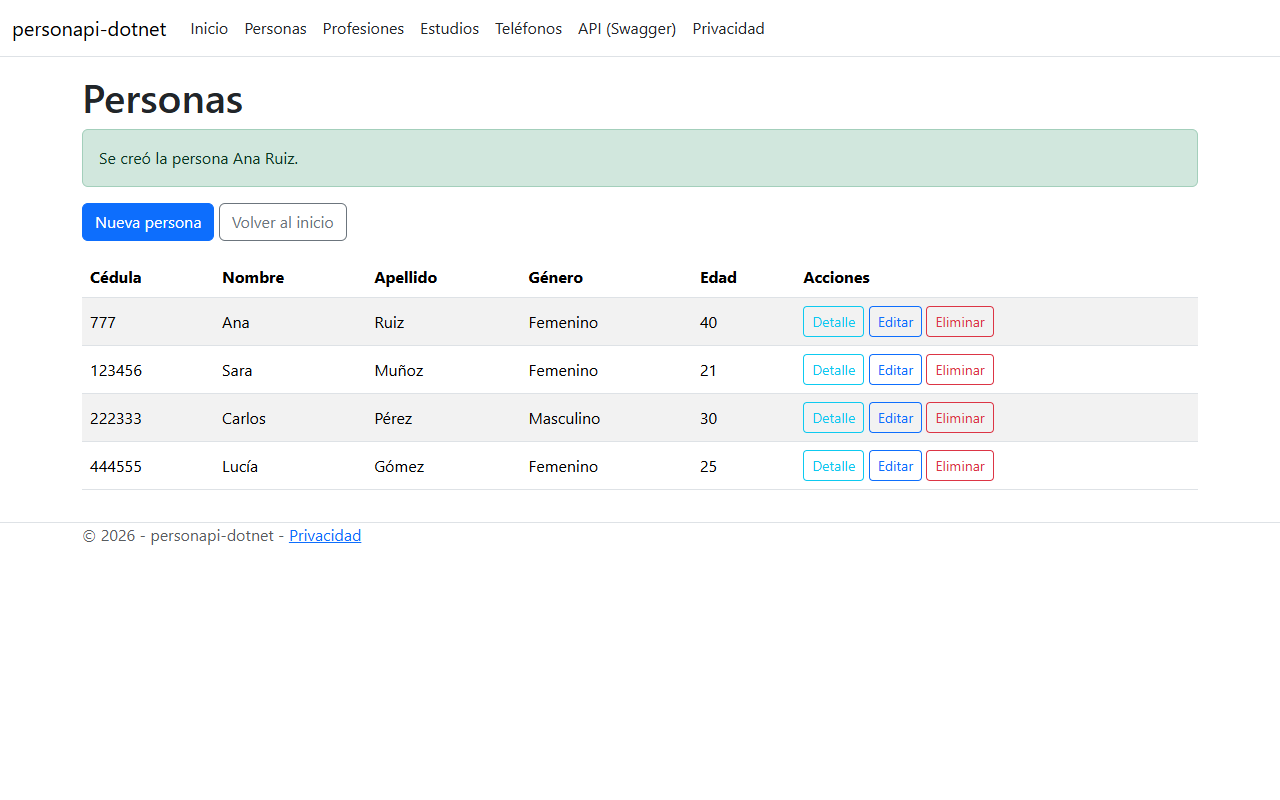
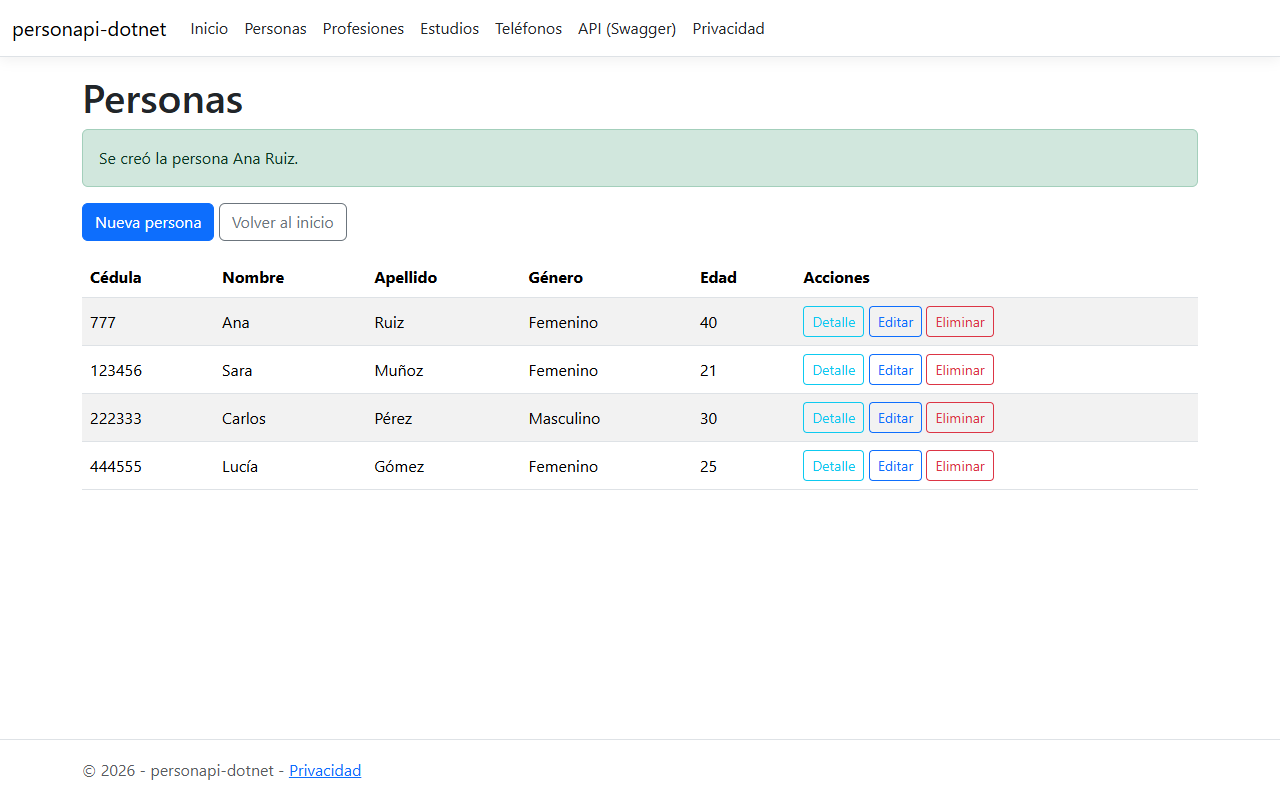
docs: evidencias de Swagger, diagramas y capturas sobre SQL Server real
- docs/evidencias/api: 8 capturas de Swagger UI probando 201, 200, 400, 409, 204 y 404.
- docs/evidencias/mvc: las 27 capturas, tomadas de nuevo sobre la versión publicada con servicios reales.
- docs/evidencias/README.md y docs/diagramas/README.md (estaban vacíos): índice de capturas y diagramas Mermaid de capas, modelo de datos y flujo.
- docs/pruebas.md: scripts en una base vacía, publicación y corrección de los estilos.

Changed region(s): [[0.0625, 0.9375, 0.2812, 0.9688], [0.0625, 0.6562, 0.2812, 0.6875]]

diff --git a/docs/diagramas/README.md b/docs/diagramas/README.md
@@ -1,0 +1,81 @@
+# Diagramas
+
+GitHub muestra los diagramas Mermaid directamente.
+
+## Capas del monolito
+
+Las vistas y la API comparten los mismos Services. Ningún controlador accede a los DAO ni al `DbContext`.
+
+```mermaid
+flowchart TD
+    N[Navegador] --> V[Vistas Razor]
+    V --> CV["Controller View<br/>Controllers/ViewControllers (20)"]
+    C[Cliente HTTP / Swagger UI] --> CA["API Controller<br/>Controllers/ApiControllers (4)"]
+    CV --> IS["Interfaces Service<br/>Controllers/Services/Interfaces"]
+    CA --> IS
+    IS --> S["Services<br/>Controllers/Services/Implementations"]
+    S --> ID["Interfaces DAO<br/>Controllers/Repositories/Interfaces"]
+    ID --> D["DAO<br/>Controllers/Repositories/Implementations"]
+    D --> EF["PersonaDbContext<br/>Entity Framework Core 10"]
+    EF --> BD[("SQL Server<br/>persona_db")]
+```
+
+## Modelo de datos
+
+Las llaves foráneas no borran en cascada (`NO ACTION`). Una persona con estudios o teléfonos, o una profesión con
+estudios, no se puede eliminar.
+
+```mermaid
+erDiagram
+    persona ||--o{ estudios : "cc_per"
+    profesion ||--o{ estudios : "id_prof"
+    persona ||--o{ telefono : "duenio"
+
+    persona {
+        int cc PK
+        varchar nombre "varchar(45)"
+        varchar apellido "varchar(45)"
+        char genero "char(1), M o F"
+        int edad ">= 0"
+    }
+    profesion {
+        int id PK "no es IDENTITY"
+        varchar nom "varchar(90)"
+        varchar des "varchar(max), opcional"
+    }
+    estudios {
+        int id_prof PK, FK
+        int cc_per PK, FK
+        date fecha "opcional"
+        varchar univer "varchar(50), opcional"
+    }
+    telefono {
+        varchar num PK "varchar(15)"
+        varchar oper "varchar(45)"
+        int duenio FK
+    }
+```
+
+## Flujo de una petición: crear un estudio desde la vista
+
+```mermaid
+sequenceDiagram
+    actor U as Usuario
+    participant CV as EstudiosCrearController
+    participant S as EstudiosService
+    participant D as DAO
+    participant BD as SQL Server
+    U->>CV: POST /Estudios/Crear (formulario + token)
+    CV->>CV: valida ModelState
+    CV->>S: CrearAsync(EstudiosCrearDto)
+    S->>D: ¿existe (idProf, ccPer)? ¿existen persona y profesión?
+    D->>BD: SELECT
+    alt llave repetida o referencia inexistente
+        S-->>CV: ConflictoNegocioException
+        CV-->>U: formulario con el mensaje en español
+    else válido
+        S->>D: CrearAsync(Estudio)
+        D->>BD: INSERT
+        CV-->>U: 302 a /Estudios con mensaje de confirmación
+    end
+```

diff --git a/docs/evidencias/README.md b/docs/evidencias/README.md
@@ -1,0 +1,32 @@
+# Evidencias
+
+Capturas de la aplicación con datos ficticios, tomadas con Playwright (Chromium, 1280 px de ancho). Se tomaron sobre
+la versión publicada (`dotnet publish`, ambiente Production), con los servicios reales y SQL Server 2022, cargado con
+los scripts de `Database/`.
+
+## API REST en Swagger UI (`api/`)
+
+Cada captura prueba una operación desde Swagger UI con "Try it out" y muestra la respuesta del servidor.
+
+| Archivo | Qué muestra |
+|---|---|
+| `01-swagger-endpoints.png` | Los 20 endpoints de `/api` y los esquemas (DTO, `ProblemDetails`) |
+| `02-swagger-post-persona-201.png` | `POST /api/personas` válido → `201 Created` |
+| `03-swagger-get-persona-200.png` | `GET /api/personas/{cc}` de la persona creada → `200 OK` |
+| `04-swagger-post-persona-400.png` | `POST /api/personas` con datos inválidos → `400` con los mensajes en español |
+| `05-swagger-delete-persona-409.png` | `DELETE /api/personas/{cc}` de una persona con estudios y teléfonos → `409 Conflict` |
+| `06-swagger-get-estudio-200.png` | `GET /api/estudios/{idProf}/{ccPer}` por sus dos llaves → `200 OK` |
+| `07-swagger-delete-persona-204.png` | `DELETE /api/personas/{cc}` sin registros relacionados → `204 No Content` |
+| `08-swagger-get-persona-404.png` | `GET /api/personas/{cc}` después de borrar → `404 Not Found` |
+
+## Vistas MVC (`mvc/`)
+
+27 capturas del CRUD de las cuatro entidades:
+
+- las listas;
+- los formularios con validación;
+- la llave repetida;
+- el borrado bloqueado por registros relacionados;
+- los mensajes de confirmación.
+
+La lista con la descripción de cada una está en [docs/vistas-mvc.md](../vistas-mvc.md), sección 8.

diff --git a/docs/pruebas.md b/docs/pruebas.md
@@ -26,7 +26,22 @@
 
 ### Capturas
 
-27 capturas tomadas con Playwright en `docs/evidencias/mvc/` (lista en `docs/vistas-mvc.md`, sección 8).
+- **Vistas:** 27 capturas tomadas con Playwright en `docs/evidencias/mvc/` (lista en `docs/vistas-mvc.md`,
+  sección 8). Se tomaron de nuevo el 2026-11-02 sobre la versión publicada, con SQL Server real.
+- **API:** 8 capturas de Swagger UI en `docs/evidencias/api/`. Cada una prueba una operación con "Try it out":
+  201, 200, 400, 409, 204 y 404.
+
+### Despliegue y scripts (2026-11-02)
+
+- **Scripts:** los de `Database/` se ejecutaron tal cual con `sqlcmd` en un SQL Server vacío, en el orden del README,
+  y todos corrieron sin errores. `03_datos_prueba_ampliados.sql`, `01_crear_base_datos.sql` y los dos primeros DML
+  también corren por segunda vez sin errores ni duplicados.
+- **Publicación:** `dotnet publish -c Release`, y luego `dotnet personapi-dotnet.dll` en ambiente Production.
+  Respondieron las 20 vistas, la API y Swagger. Con la base apagada, la vista muestra la página de error en español
+  y la API un `ProblemDetails` genérico.
+- **Corrección:** el layout pedía `personapi_dotnet.styles.css`, pero el archivo generado es
+  `personapi-dotnet.styles.css`. Daba un 404 en todas las páginas y no se cargaban los estilos del menú; quedó
+  corregido.
 
 ### Prueba con los servicios reales (2026-10-27)
 

diff --git a/docs/vistas-mvc.md b/docs/vistas-mvc.md
@@ -260,8 +260,9 @@ propuesta en `docs/decisiones-mvc.md` porque toca `Program.cs`.
 
 ## 8. Capturas
 
-Tomadas con Playwright (Chromium sin interfaz, 1280 px de ancho) sobre los mismos servicios falsos; están en
-`docs/evidencias/mvc/`.
+Tomadas con Playwright (Chromium sin interfaz, 1280 px de ancho) en `docs/evidencias/mvc/`. La versión actual
+(2026-11-02) se tomó sobre la aplicación publicada (`dotnet publish`, ambiente Production) con los servicios reales y
+SQL Server 2022, cargado con los scripts de `Database/`. La primera versión se había tomado con servicios falsos.
 
 | Archivo | Qué muestra |
 |---|---|
